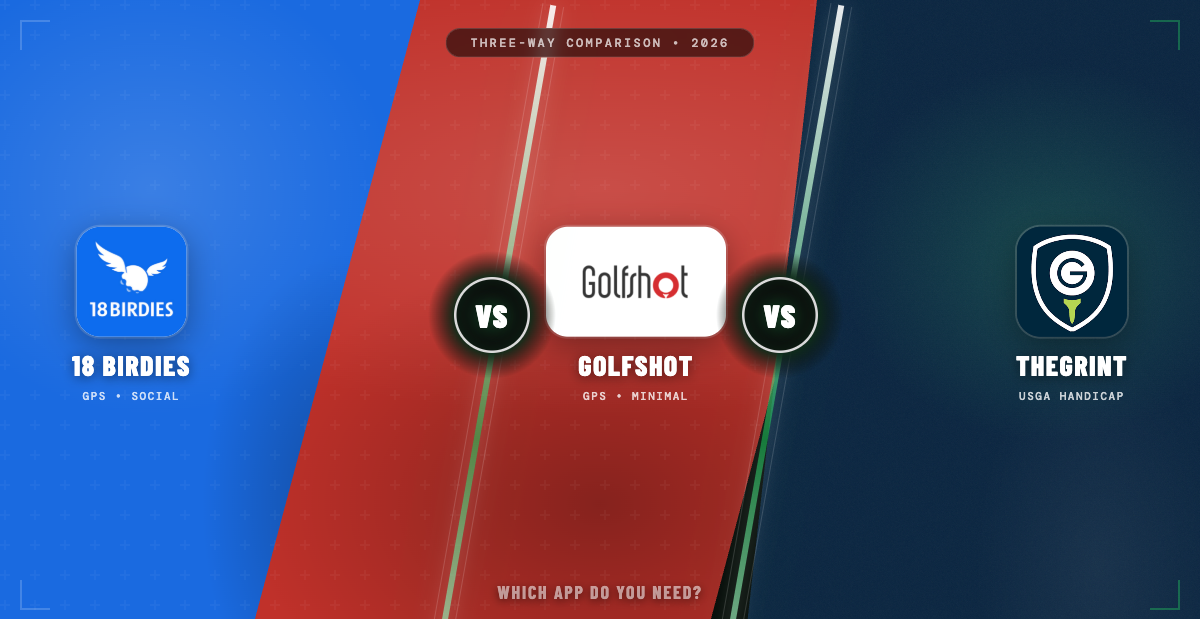
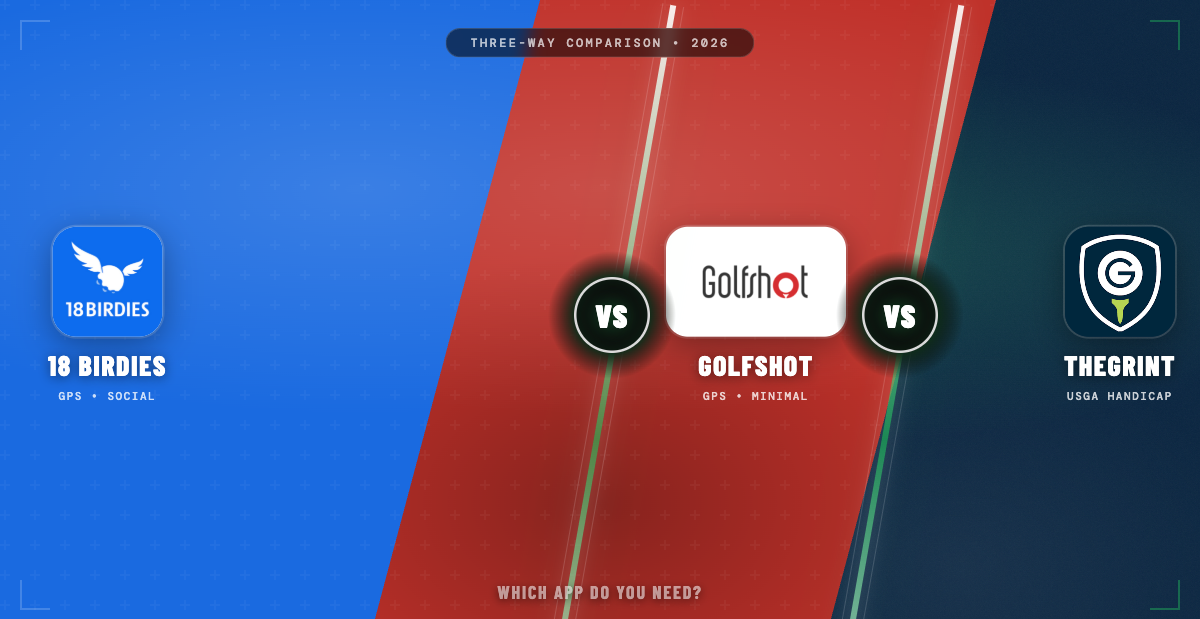
Shift middle red panel another 10% right (total ~13% from original)
Per Stephen's feedback: red panel + slashes + VS badges + Golfshot brand
all shifted further right so the red sits decisively right of canvas
centre. Side panels (blue, navy) widened and use canvas-relative
clip-paths now for cleaner positioning.

diff --git a/blog/images/18birdies-golfshot-thegrint-hero.html b/blog/images/18birdies-golfshot-thegrint-hero.html
@@ -14,9 +14,9 @@
 
   /* ── PANEL 1: 18 Birdies (left) ── */
   .panel-1 {
-    position: absolute; top: 0; left: 0; width: 42%; height: 100%;
+    position: absolute; top: 0; left: 0; width: 100%; height: 100%;
     background: #1a6ae0;
-    clip-path: polygon(0 0, 90% 0, 76% 100%, 0 100%);
+    clip-path: polygon(0 0, 45% 0, 31% 100%, 0 100%);
     z-index: 1;
   }
   .panel-1::before {
@@ -34,7 +34,7 @@
   .panel-2 {
     position: absolute; top: 0; left: 0; width: 100%; height: 100%;
     background: #c0312a;
-    clip-path: polygon(35% 0, 73% 0, 59% 100%, 21% 100%);
+    clip-path: polygon(45% 0, 83% 0, 69% 100%, 31% 100%);
     z-index: 2;
   }
   .panel-2::before {
@@ -50,9 +50,9 @@
 
   /* ── PANEL 3: TheGrint (right, dark + green accent) ── */
   .panel-3 {
-    position: absolute; top: 0; right: 0; width: 42%; height: 100%;
+    position: absolute; top: 0; left: 0; width: 100%; height: 100%;
     background: #0a2540;
-    clip-path: polygon(24% 0, 100% 0, 100% 100%, 10% 100%);
+    clip-path: polygon(83% 0, 100% 0, 100% 100%, 69% 100%);
     z-index: 3;
   }
   .panel-3::before {
@@ -77,8 +77,8 @@
   }
   .slash::before, .slash::after { content: ''; position: absolute; top: 0; width: 1px; height: 100%; background: rgba(255,255,255,0.15); }
   .slash::before { left: -8px; } .slash::after { right: -8px; }
-  .slash-1 { left: 41%; transform: translateX(-50%) rotate(10deg); }
-  .slash-2 { left: 65%; transform: translateX(-50%) rotate(10deg); }
+  .slash-1 { left: 51%; transform: translateX(-50%) rotate(10deg); }
+  .slash-2 { left: 75%; transform: translateX(-50%) rotate(10deg); }
 
   /* ── VS BADGES (smaller for 3-way) ── */
   .vs-badge {
@@ -101,8 +101,8 @@
     font-weight: 900; font-size: 32px; letter-spacing: 0.04em;
     color: #fff; text-shadow: 0 0 22px rgba(34,197,94,0.5);
   }
-  .vs-1 { left: 41%; }
-  .vs-2 { left: 65%; }
+  .vs-1 { left: 51%; }
+  .vs-2 { left: 75%; }
 
   /* ── BRAND BLOCKS ── */
   .brand {
@@ -110,9 +110,9 @@
     z-index: 5;
     display: flex; flex-direction: column; align-items: center; gap: 14px;
   }
-  .brand-1 { left: 6%; }
-  .brand-2 { left: 53%; transform: translate(-50%, -50%); }
-  .brand-3 { right: 6%; }
+  .brand-1 { left: 4%; }
+  .brand-2 { left: 63%; transform: translate(-50%, -50%); }
+  .brand-3 { right: 2%; }
 
   .brand-logo {
     width: 110px; height: 110px; border-radius: 24px;
